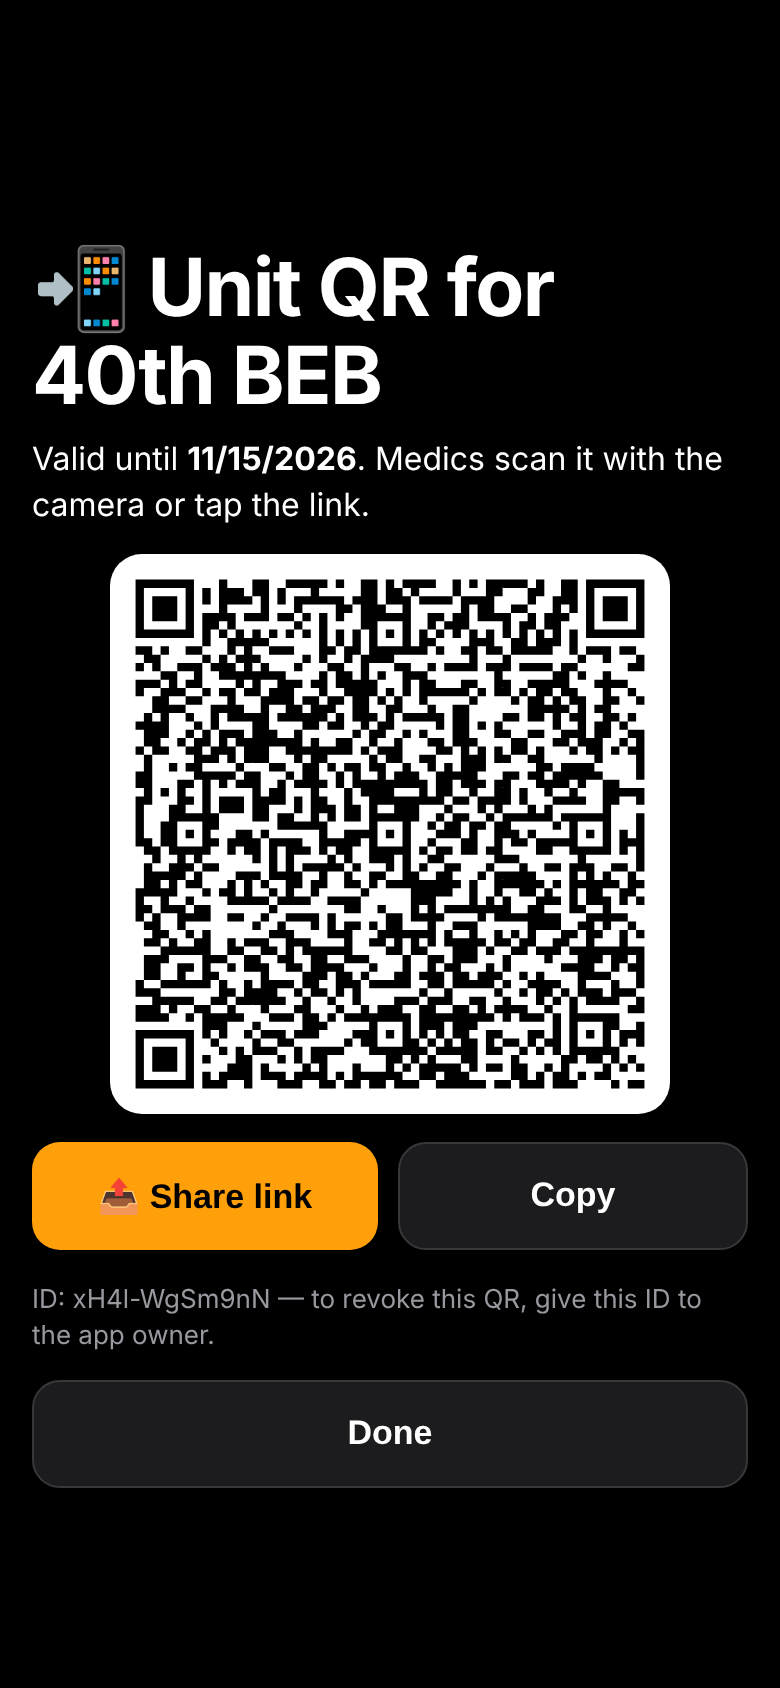
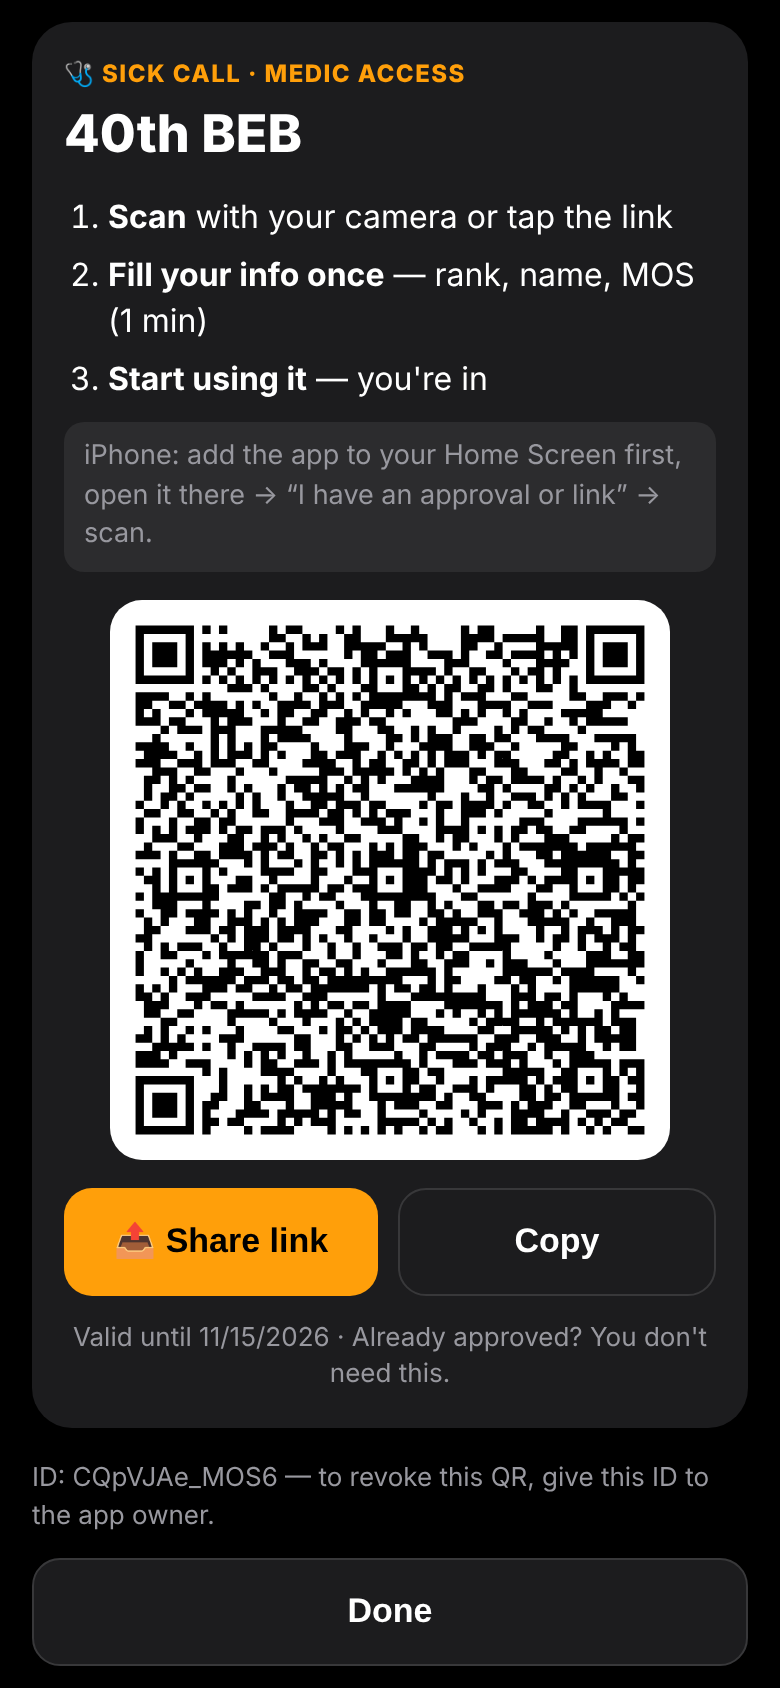
Unit QR: how-to card for medics + instructions in the shared message (v31)
QR de unidad: instructivo para médicos + instrucciones en el mensaje compartido (v31)

Claude-Session: https://claude.ai/code/session_015dVcNB5Wifchtix1QkjYVg

diff --git a/access.js b/access.js
@@ -43,12 +43,12 @@ function acDays(){return Math.max(0,Math.ceil((new Date(ACCESS.ENFORCE_FROM+'T00
 function acLink(k,v){return iqBase()+'#'+k+'='+v;}
 function acQR(text){try{const q=qrcode(0,'L');q.addData(text);q.make();return q.createSvgTag({cellSize:3,margin:2,scalable:true});}catch(e){return '';}}
 function acCopy(t,b){try{navigator.clipboard.writeText(t);if(b){const o=b.textContent;b.textContent=L('Copied ✓','Copiado ✓');setTimeout(()=>b.textContent=o,1500);}}catch(e){prompt('Copy',t);}}
-function acShare(t,title){if(navigator.share){navigator.share({title,text:title,url:t}).catch(()=>{});}else acCopy(t);}
+function acShare(t,title,txt){if(navigator.share){navigator.share({title,text:txt||title,url:t}).catch(()=>{});}else acCopy(txt?txt+'\n'+t:t);}
 function acEsc(s){return String(s==null?'':s).replace(/[&<>"']/g,c=>({'&':'&amp;','<':'&lt;','>':'&gt;','"':'&quot;',"'":'&#39;'}[c]));}
 /* ---------- overlay ---------- */
 function acOv(html){let o=document.getElementById('mgOv');if(!o){o=document.createElement('div');o.id='mgOv';document.body.appendChild(o);}o.innerHTML='<div class="mg-card" role="dialog" aria-modal="true">'+html+'</div>';o.scrollTop=0;}
 function acClose(){const o=document.getElementById('mgOv');if(o)o.remove();}
-function acShareBox(link,title){return '<div class="ac-qr">'+acQR(link)+'</div><div class="ac-row"><button class="mg-btn" onclick="acShare(\''+link+'\',\''+acEsc(title)+'\')">📤 '+L('Share link','Compartir link')+'</button><button class="mg-btn sec" onclick="acCopy(\''+link+'\',this)">'+L('Copy','Copiar')+'</button></div>';}
+function acShareBox(link,title,txt){const tx=txt?acEsc(txt.replace(/\\/g,'\\\\').replace(/'/g,"\\'").replace(/\n/g,'\\n')):'';return '<div class="ac-qr">'+acQR(link)+'</div><div class="ac-row"><button class="mg-btn" onclick="acShare(\''+link+'\',\''+acEsc(title)+'\',\''+tx+'\')">📤 '+L('Share link','Compartir link')+'</button><button class="mg-btn sec" onclick="acCopy(\''+link+'\',this)">'+L('Copy','Copiar')+'</button></div>';}
 /* ---------- gate ---------- */
 async function accGate(force){
   if(!/^https?:/.test(location.protocol)||!AC.ok())return; // local file / no WebCrypto: dev mode
@@ -232,8 +232,13 @@ async function acInvMake(){
   const prv=me.r==='appr'?me.prv:AC.get('sc_root').prv;
   const link=acLink('ainv',await AC.sign({t:'inv',id,u,exp,n,iat,c:me.r==='appr'?me.cert:null},prv));
   const log=AC.get('sc_aplog')||[];log.unshift({id,n:L('Unit QR','QR de unidad')+' · '+days+'d · ~'+n,u,r:'inv',at:Date.now()});AC.set('sc_aplog',log.slice(0,300));
-  acOv('<h2>📲 '+L('Unit QR for ','QR de unidad para ')+acEsc(u)+'</h2><p>'+L('Valid until ','Válido hasta ')+'<b>'+new Date(exp*1000).toLocaleDateString()+'</b>. '+L('Medics scan it with the camera or tap the link.','Los médicos lo escanean con la cámara o tocan el link.')+'</p>'
-   +acShareBox(link,L('Sick Call — medic access for ','Sick Call — acceso de médicos para ')+u)
+  const until=new Date(exp*1000).toLocaleDateString();
+  const shareTxt=L('🩺 Sick Call — medic access ('+u+')\nNew to the app? Tap the link or scan the QR, fill your info once (1 min) and start using it.\niPhone: add the app to your Home Screen first, then open it there → “I have an approval or link” → scan or paste.\nAlready have access? You don\'t need this.\nValid until '+until+'.','🩺 Sick Call — acceso de médicos ('+u+')\n¿Nuevo en la app? Toca el link o escanea el QR, llena tus datos una vez (1 min) y empieza a usarla.\niPhone: primero agrega la app a tu pantalla de inicio, ábrela desde ahí → “Tengo una aprobación o link” → escanea o pega.\n¿Ya tienes acceso? No necesitas esto.\nVálido hasta '+until+'.');
+  acOv('<div class="inv-card"><div class="inv-k">🩺 SICK CALL · '+L('MEDIC ACCESS','ACCESO DE MÉDICOS')+'</div><div class="inv-u">'+acEsc(u)+'</div>'
+   +'<ol class="inv-steps"><li>'+L('<b>Scan</b> with your camera or tap the link','<b>Escanea</b> con tu cámara o toca el link')+'</li><li>'+L('<b>Fill your info once</b> — rank, name, MOS (1 min)','<b>Llena tus datos una vez</b> — rango, nombre, MOS (1 min)')+'</li><li>'+L('<b>Start using it</b> — you\'re in','<b>Empieza a usarla</b> — ya entraste')+'</li></ol>'
+   +'<div class="inv-ios">'+L('iPhone: add the app to your Home Screen first, open it there → “I have an approval or link” → scan.','iPhone: primero agrega la app a tu pantalla de inicio, ábrela desde ahí → “Tengo una aprobación o link” → escanea.')+'</div>'
+   +acShareBox(link,L('Sick Call — medic access for ','Sick Call — acceso de médicos para ')+u,shareTxt)
+   +'<div class="inv-f">'+L('Valid until ','Válido hasta ')+until+' · '+L('Already approved? You don\'t need this.','¿Ya tienes acceso? No necesitas esto.')+'</div></div>'
    +'<p class="mg-f">ID: '+id+' — '+L('to revoke this QR, give this ID to the app owner.','para revocar este QR, dale este ID al dueño de la app.')+'</p><button class="mg-btn sec" onclick="acClose();goRef(\'access\')">'+L('Done','Listo')+'</button>');
 }
 /* Remote revocation list (revoked.json) — checked on open; cached for offline. / Lista de revocados remota. */

diff --git a/style.css b/style.css
@@ -780,3 +780,10 @@ body.guest #aside,body.guest #mobileNoteBtn,body.guest #tabbar button[data-v="ad
 #mgOv select.ac-in{appearance:none;-webkit-appearance:none;background-image:linear-gradient(45deg,transparent 50%,var(--dim) 50%),linear-gradient(135deg,var(--dim) 50%,transparent 50%);background-position:calc(100% - 18px) 55%,calc(100% - 12px) 55%;background-size:6px 6px;background-repeat:no-repeat;padding-right:30px}
 #mgOv .ac-row>div .ac-in{margin-top:0}
 #mgOv .ac-tally{width:100%;height:220px;border:0;border-radius:14px;background:var(--panel);margin-top:8px}
+/* Unit QR card (v31) / Tarjeta del QR de unidad */
+#mgOv .inv-card{background:var(--panel);border-radius:20px;padding:18px 16px}
+#mgOv .inv-k{font-size:12px;font-weight:800;letter-spacing:.06em;color:var(--orange)}
+#mgOv .inv-u{font-size:26px;font-weight:800;margin:4px 0 10px}
+#mgOv .inv-steps{margin:0 0 10px;padding-left:22px;font-size:16px;line-height:1.45}#mgOv .inv-steps li{margin-bottom:6px}
+#mgOv .inv-ios{font-size:13.5px;color:var(--dim);background:var(--panel2);border-radius:10px;padding:8px 10px;line-height:1.45}
+#mgOv .inv-f{font-size:13px;color:var(--dim);text-align:center;margin-top:12px}

diff --git a/sw.js b/sw.js
@@ -1,4 +1,4 @@
-const C='sickcall-v30';
+const C='sickcall-v31';
 const FILES=['./','index.html','style.css','app.js','data/protocols.js','data/meds.js','data/plans.js','data/notetags.js','data/howto.js','data/es.js','manifest.json','vendor/pdf-lib.min.js','forms/DD689.pdf','data/intake.js','intake.html','poster.html','vendor/qrcode.min.js','vendor/jsQR.min.js','access.js','data/access.js','data/medinfo.js','data/pfb.js','data/whatsnew.js','icons/icon-192.png','icons/icon-512.png','icons/apple-touch-icon.png'];
 self.addEventListener('install',e=>{e.waitUntil(caches.open(C).then(c=>c.addAll(FILES.map(f=>new Request(f,{cache:'reload'})))).then(()=>self.skipWaiting()));});
 self.addEventListener('activate',e=>{e.waitUntil(caches.keys().then(k=>Promise.all(k.filter(x=>x!==C).map(x=>caches.delete(x)))).then(()=>self.clients.claim()));});

diff --git a/app.js b/app.js
@@ -2758,7 +2758,7 @@ async function tryUnlock(){
 }
 function lockNow(){if(settings.pin){document.getElementById('lock').style.display='flex';}}
 function showLockIfNeeded(){if(settings.pin)document.getElementById('lock').style.display='flex';}
-const APP_VER='v30';
+const APP_VER='v31';
 function updateApp(b){
   if(b){b.disabled=true;b.textContent=L('Updating…','Actualizando…');}
   const go=()=>{location.href=location.pathname+'?u='+Date.now();};

diff --git a/CHANGELOG.md b/CHANGELOG.md
@@ -4,6 +4,8 @@ Bilingual summary of everything added or fixed, newest first. PR numbers refer t
 Resumen bilingüe de todo lo agregado o corregido, lo más nuevo primero. Los números de PR son de este repositorio.
 
 ## Unreleased / Próximo
+- **Unit QR instructions:** the unit QR screen now shows a short how-to for medics (scan → fill info once → start; iPhone tip) and the shared message carries the same instructions.
+  **Instrucciones del QR de unidad:** la pantalla del QR de unidad muestra un instructivo corto para los médicos (escanea → llena tus datos una vez → empieza; consejo para iPhone) y el mensaje que se comparte lleva las mismas instrucciones.
 - **Sign-up wording:** the medic sign-up says the registration is only used to verify medic access.
   **Texto del registro:** el registro del médico dice que solo se usa para verificar el acceso de médicos.
 - **Unit QR for medic access:** the owner or an NCO approver creates a signed unit QR/link (More → Access → Create unit QR; valid 7/14/30 days). A medic scans it, fills rank, last/first name, MOS (medical MOS list only), unit and point of contact, taps "Confirm & enter" and has access. Each sign-up (with device ID and QR ID) goes to the owner's Tally form "Sick Call — Medic sign-up". Revocation without a new release: add a device ID, approval ID or QR ID to `revoked.json`; phones check it every time the app opens. Phones approved the old way keep working; the request/approval path stays as a fallback.
